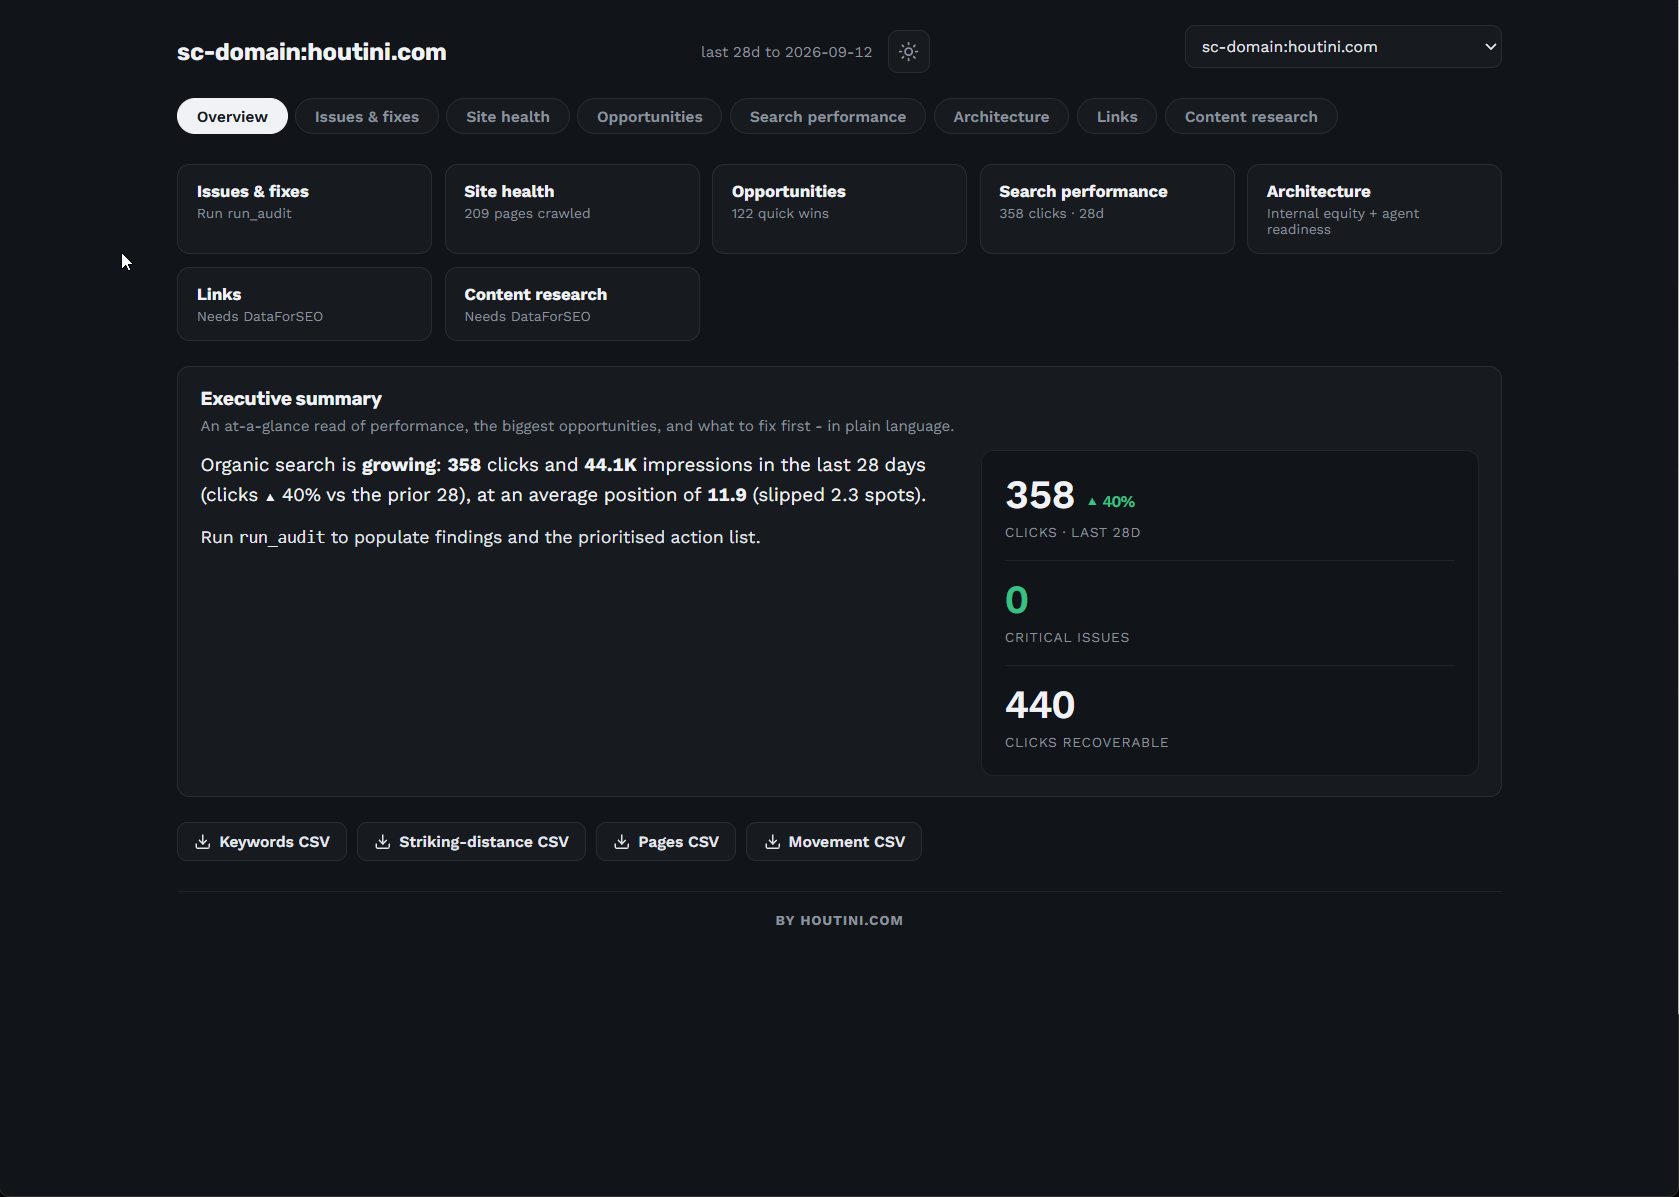
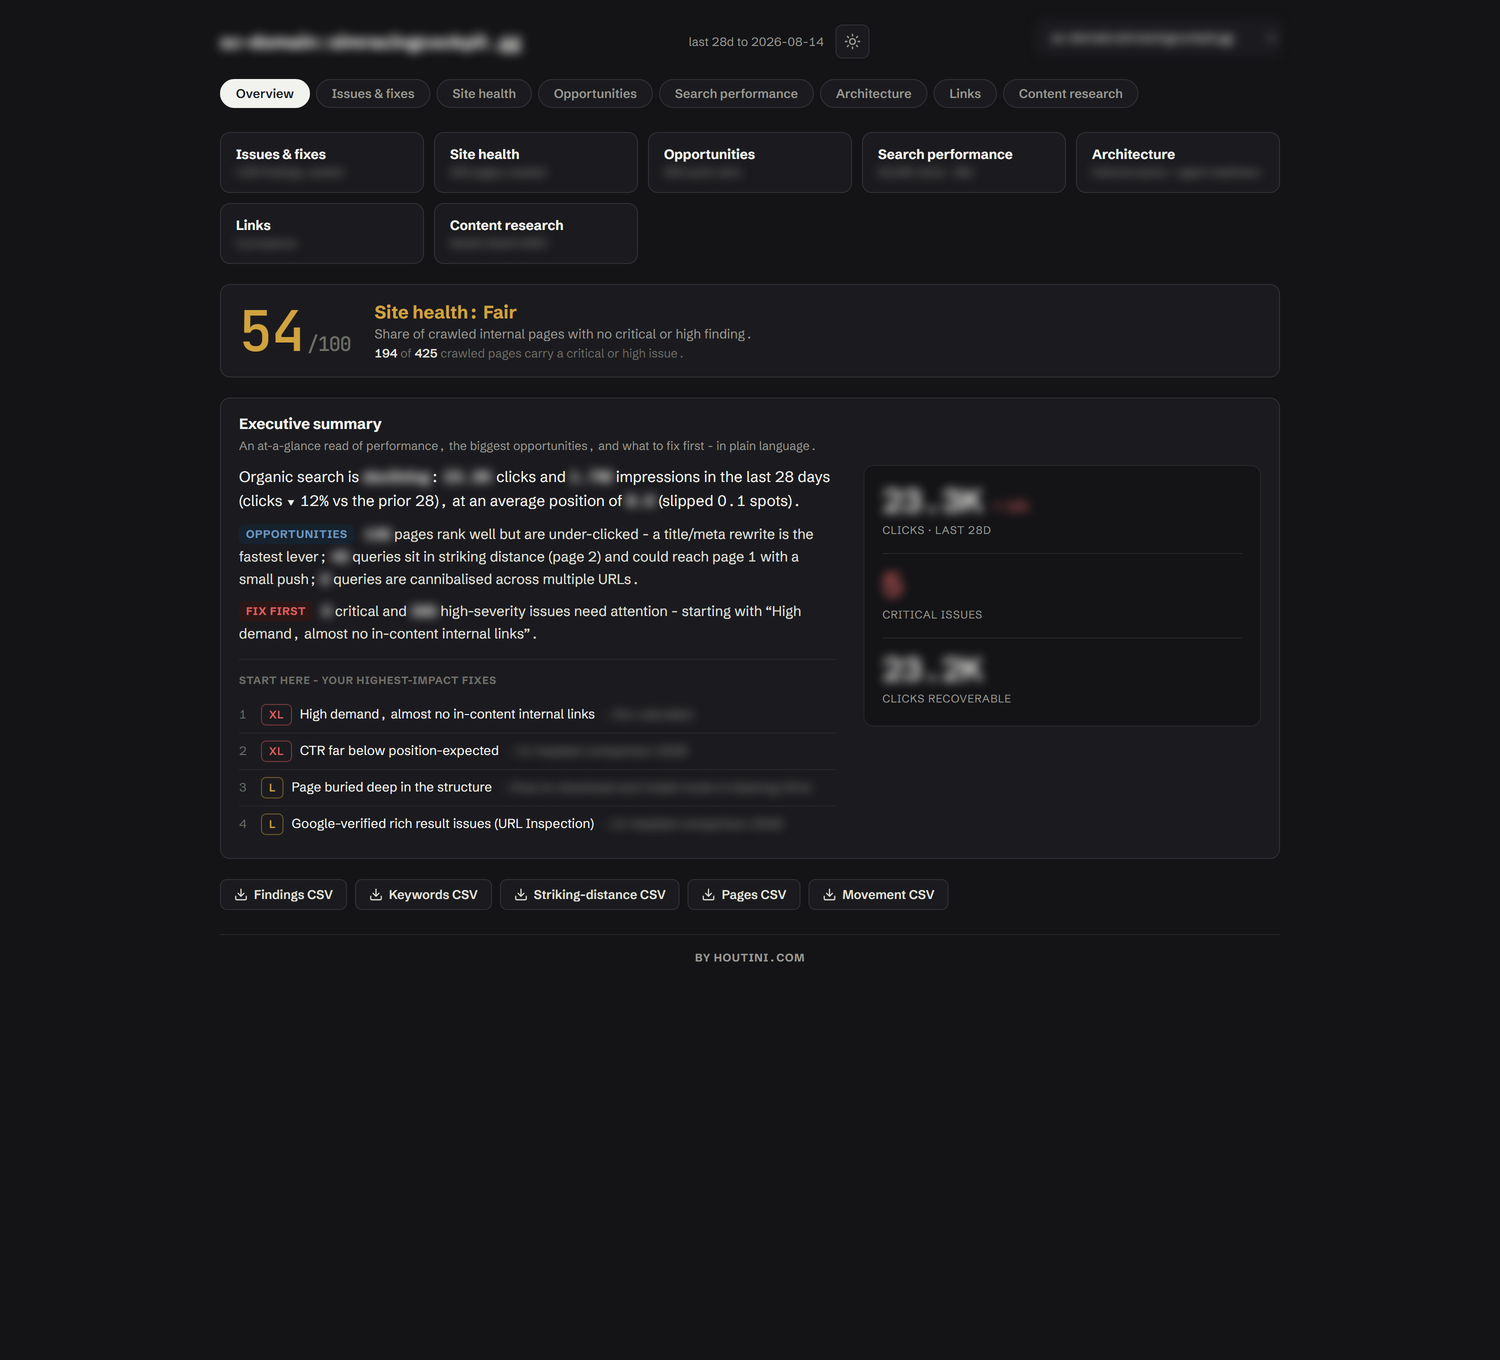
docs(readme): refresh dashboard screenshots to the dark redesign + add structure map
New dark-mode, redacted captures for the overview, site-health and
search-performance images, and a new Architecture showcase (crawl-structure
map, equity-vs-traffic flow, equity-vs-reality scatter). Captions updated
for the Site Health Score and the new thematic views.

diff --git a/README.md b/README.md
@@ -35,7 +35,9 @@ you  › run an SEO audit on mysite.com
 you  › generate the fix for #1 ▍
 ```
 
-[![The dashboard overview - a report hub, executive summary, critical issues and recoverable clicks](https://raw.githubusercontent.com/houtini-ai/seo-audit/master/assets/dashboard-overview.png)](https://github.com/houtini-ai/seo-audit)
+[![The dashboard overview - the Site Health Score, a plain-language executive summary, critical issues and recoverable clicks](https://raw.githubusercontent.com/houtini-ai/seo-audit/master/assets/dashboard-overview.png)](https://github.com/houtini-ai/seo-audit)
+
+[![The Architecture tab - the crawl-structure map of your internal link skeleton, the equity-vs-traffic flow, and the equity-vs-reality scatter](https://raw.githubusercontent.com/houtini-ai/seo-audit/master/assets/architecture.png)](https://github.com/houtini-ai/seo-audit)
 
 ## The manual
 
@@ -113,7 +115,7 @@ The crawl is where audits usually go wrong, so it's worth understanding what thi
 
 After the crawl it computes a real link graph: internal PageRank with nav and footer links down-weighted, click depth from the homepage counting body links only, in-degree per page. That graph powers the orphan, equity-leak and underlinked-page checks - and the donor rankings when the tool suggests internal links.
 
-[![The Site health tab - classic crawl diagnostics as stat bars](https://raw.githubusercontent.com/houtini-ai/seo-audit/master/assets/site-health.png)](https://github.com/houtini-ai/seo-audit)
+[![The Site health tab - classic crawl diagnostics plus security-header, structured-data and redirect-chain coverage](https://raw.githubusercontent.com/houtini-ai/seo-audit/master/assets/site-health.png)](https://github.com/houtini-ai/seo-audit)
 
 ---
 
